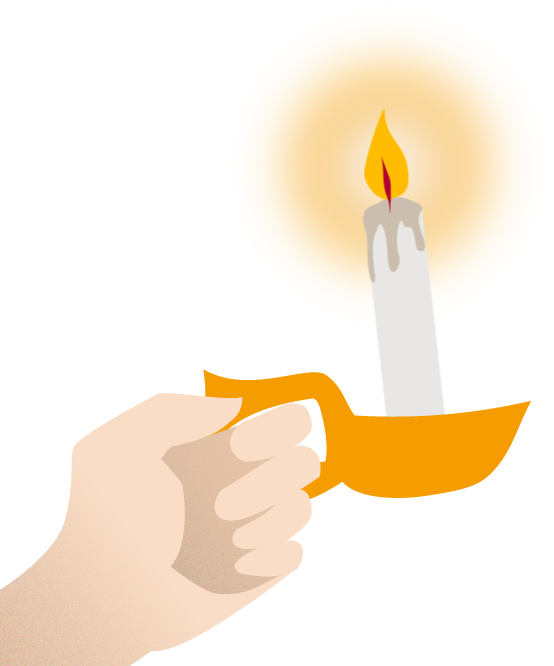
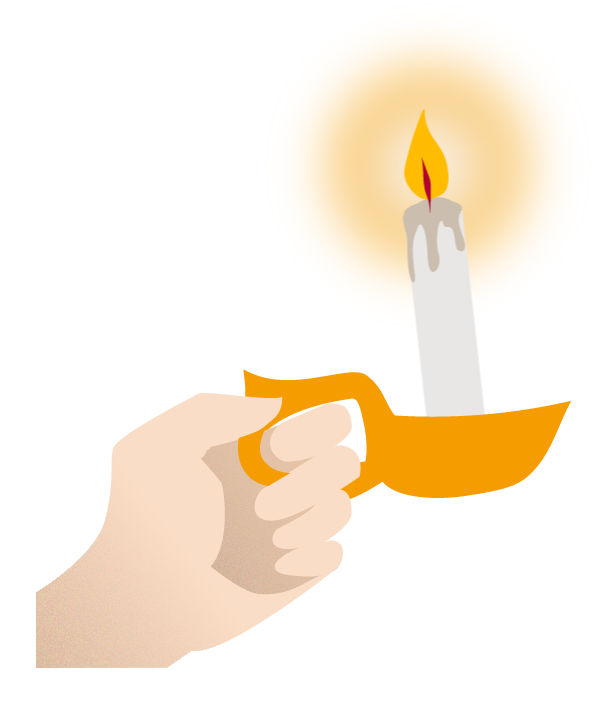
fix: wrong assets used

diff --git a/src/pages/index.tsx b/src/pages/index.tsx
@@ -112,8 +112,8 @@ const LandingPage = () => {
         src="/assets/rightHand.png"
         pos={"absolute"}
         w={["16rem", "16rem", "22rem", "24rem", "32rem"]}
-        bottom={-8}
-        right={[-20, -8, -8, -8, -8, -8]}
+        bottom={-12}
+        right={[-20, -14, -14, -14, -14, -14]}
         variants={{
           initial: {
             y: [-13, 11],
@@ -140,7 +140,7 @@ const LandingPage = () => {
         pos={"absolute"}
         // w={["14rem", "16rem", "24rem", "24rem", "32rem"]}
         w={["14rem", "12rem", "20rem", "22rem", "28rem"]}
-        bottom={-8}
+        bottom={-12}
         left={-8}
         variants={{
           initial: {
